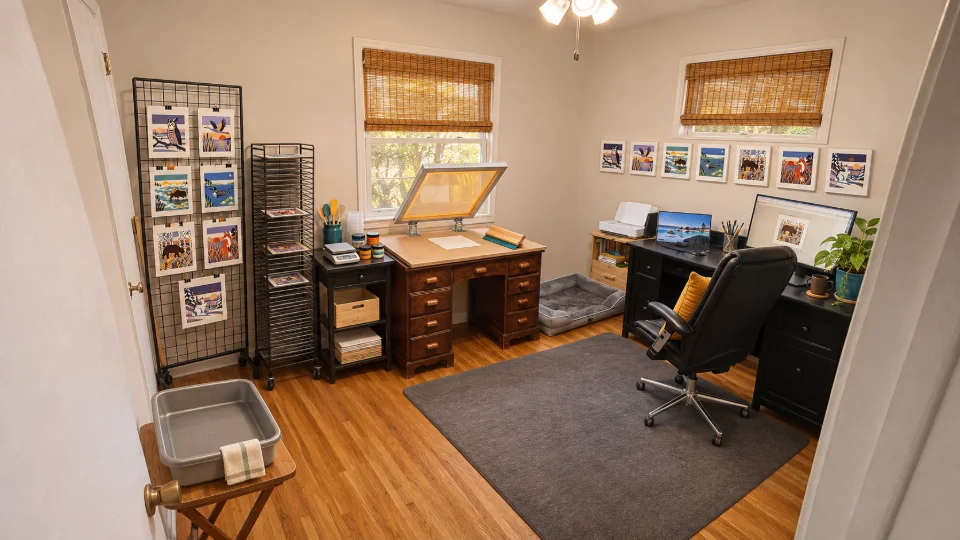
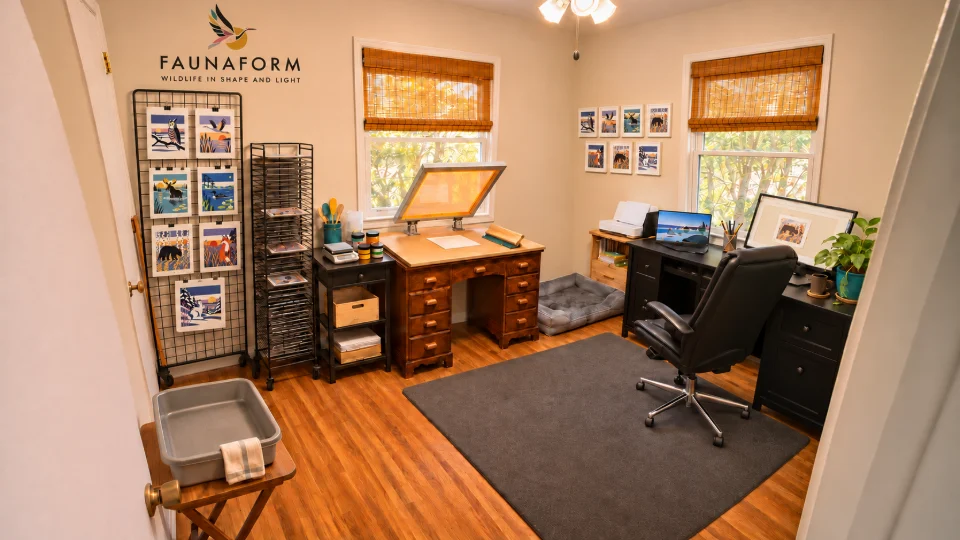
Faunaform: new picture of the room as a studio
Same room and same plan, redrawn with the Faunaform mark on the wall.
Cropped to 16:9 and resampled to 960x540 to match the photo beside it, so
width and height hold; ?v=2 for the new bytes. resting.mjs and states.mjs
scoped to the page: 190 and 77 measurements, the same as before.

diff --git a/case-study/faunaform.html b/case-study/faunaform.html
@@ -656,7 +656,7 @@
               <span class="build-pair-label">Our home office</span>
             </div>
             <div class="build-pair-item">
-              <img src="../img/faunaform/room-plan.webp?v=1" width="960" height="540" loading="lazy" decoding="async" alt="The same room planned as a studio: the hinge-clamp board and a lifted screen on the wooden desk, a gridwall of square prints and a rolling drying rack by the door, a gray tray on the tray table, and the dog bed still in its corner." />
+              <img src="../img/faunaform/room-plan.webp?v=2" width="960" height="540" loading="lazy" decoding="async" alt="The same room planned as a studio: the hinge-clamp board and a lifted screen on the wooden desk, a gridwall of square prints and a rolling drying rack by the door, a gray tray on the tray table, and the dog bed still in its corner." />
               <span class="build-pair-label">The same room, as a studio</span>
             </div>
           </div>
